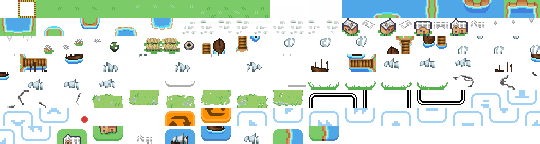
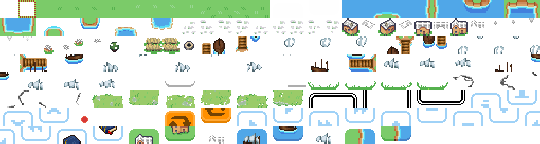
Style the dictionary button

Changed region(s): [[0.0889, 0.8611, 0.7704, 1.0]]

diff --git a/web_client/src/_data/tiles.js b/web_client/src/_data/tiles.js
@@ -212,22 +212,26 @@ const tiles = {
     SKIP_PREV_BUTTON_NE: 210,
     SKIP_PREV_BUTTON_SW: 211,
     SKIP_PREV_BUTTON_SE: 212,
-    TOWN_BUTTON_NW: 213,
-    TOWN_BUTTON_NE: 214,
-    TOWN_BUTTON_SW: 215,
-    TOWN_BUTTON_SE: 216,
-    TOWN_BUTTON_ROOF_NW: 217,
-    TOWN_BUTTON_ROOF_NE: 218,
-    DOCK_BUTTON_NW: 219,
-    DOCK_BUTTON_NE: 220,
-    DOCK_BUTTON_SW: 221,
-    DOCK_BUTTON_SE: 222,
-    DOCK_BUTTON_SAIL_NW: 223,
-    DOCK_BUTTON_SAIL_NE: 224,
-    TERRAIN_BUTTON_NW: 225,
-    TERRAIN_BUTTON_NE: 226,
-    TERRAIN_BUTTON_SW: 227,
-    TERRAIN_BUTTON_SE: 228,
+    DICT_BUTTON_NW: 213,
+    DICT_BUTTON_NE: 214,
+    DICT_BUTTON_SW: 215,
+    DICT_BUTTON_SE: 216,
+    TOWN_BUTTON_NW: 217,
+    TOWN_BUTTON_NE: 218,
+    TOWN_BUTTON_SW: 219,
+    TOWN_BUTTON_SE: 220,
+    TOWN_BUTTON_ROOF_NW: 221,
+    TOWN_BUTTON_ROOF_NE: 222,
+    DOCK_BUTTON_NW: 223,
+    DOCK_BUTTON_NE: 224,
+    DOCK_BUTTON_SW: 225,
+    DOCK_BUTTON_SE: 226,
+    DOCK_BUTTON_SAIL_NW: 227,
+    DOCK_BUTTON_SAIL_NE: 228,
+    TERRAIN_BUTTON_NW: 229,
+    TERRAIN_BUTTON_NE: 230,
+    TERRAIN_BUTTON_SW: 231,
+    TERRAIN_BUTTON_SE: 232,
 };
 
 const quads = {
@@ -281,6 +285,7 @@ const quads = {
     TRI_NORTH_BUTTON: [[tiles.TRI_NORTH_BUTTON_NW, tiles.TRI_NORTH_BUTTON_NE],[tiles.TRI_NORTH_BUTTON_SW, tiles.TRI_NORTH_BUTTON_SE]],
     TRI_SOUTH_BUTTON: [[tiles.TRI_SOUTH_BUTTON_NW, tiles.TRI_SOUTH_BUTTON_NE],[tiles.TRI_SOUTH_BUTTON_SW, tiles.TRI_SOUTH_BUTTON_SE]],
     SKIP_PREV_BUTTON: [[tiles.SKIP_PREV_BUTTON_NW, tiles.SKIP_PREV_BUTTON_NE],[tiles.SKIP_PREV_BUTTON_SW, tiles.SKIP_PREV_BUTTON_SE]],
+    DICT_BUTTON: [[tiles.DICT_BUTTON_NW, tiles.DICT_BUTTON_NE],[tiles.DICT_BUTTON_SW, tiles.DICT_BUTTON_SE]],
     TOWN_BUTTON: [[tiles.TOWN_BUTTON_NW, tiles.TOWN_BUTTON_NE],[tiles.TOWN_BUTTON_SW, tiles.TOWN_BUTTON_SE]],
     TOWN_BUTTON_ROOF: [[tiles.TOWN_BUTTON_ROOF_NW, tiles.TOWN_BUTTON_ROOF_NE],[tiles.NONE, tiles.NONE]],
     DOCK_BUTTON: [[tiles.DOCK_BUTTON_NW, tiles.DOCK_BUTTON_NE],[tiles.DOCK_BUTTON_SW, tiles.DOCK_BUTTON_SE]],

diff --git a/web_client/src/_data/credits.js b/web_client/src/_data/credits.js
@@ -40,6 +40,14 @@ module.exports = function () {
         "author_url": "http://opengameart.org/users/DualR",
         "license": "CC BY 3.0",
         "license_url": "https://creativecommons.org/licenses/by/3.0/"
+      },
+      {
+        "name": "Roguelike/RPG Items",
+        "url": "https://opengameart.org/content/roguelikerpg-items",
+        "author": "JoeCreates",
+        "author_url": "https://twitter.com/joecreates",
+        "license": "CC BY-SA 3.0",
+        "license_url": "https://creativecommons.org/licenses/by-sa/3.0/"
       }
     ],
     audio_assets: [

diff --git a/truncate_client/src/utils/tex/tiles.rs b/truncate_client/src/utils/tex/tiles.rs
@@ -8,7 +8,7 @@ const fn t(tile: usize) -> Tex {
     Tex { tile, tint: None }
 }
 
-pub const MAX_TILE: usize = 229;
+pub const MAX_TILE: usize = 233;
 pub const NONE: Tex = t(0);
 pub const DEBUG: Tex = t(1);
 pub const BASE_GRASS: Tex = t(2);
@@ -222,22 +222,26 @@ pub const SKIP_PREV_BUTTON_NW: Tex = t(209);
 pub const SKIP_PREV_BUTTON_NE: Tex = t(210);
 pub const SKIP_PREV_BUTTON_SW: Tex = t(211);
 pub const SKIP_PREV_BUTTON_SE: Tex = t(212);
-pub const TOWN_BUTTON_NW: Tex = t(213);
-pub const TOWN_BUTTON_NE: Tex = t(214);
-pub const TOWN_BUTTON_SW: Tex = t(215);
-pub const TOWN_BUTTON_SE: Tex = t(216);
-pub const TOWN_BUTTON_ROOF_NW: Tex = t(217);
-pub const TOWN_BUTTON_ROOF_NE: Tex = t(218);
-pub const DOCK_BUTTON_NW: Tex = t(219);
-pub const DOCK_BUTTON_NE: Tex = t(220);
-pub const DOCK_BUTTON_SW: Tex = t(221);
-pub const DOCK_BUTTON_SE: Tex = t(222);
-pub const DOCK_BUTTON_SAIL_NW: Tex = t(223);
-pub const DOCK_BUTTON_SAIL_NE: Tex = t(224);
-pub const TERRAIN_BUTTON_NW: Tex = t(225);
-pub const TERRAIN_BUTTON_NE: Tex = t(226);
-pub const TERRAIN_BUTTON_SW: Tex = t(227);
-pub const TERRAIN_BUTTON_SE: Tex = t(228);
+pub const DICT_BUTTON_NW: Tex = t(213);
+pub const DICT_BUTTON_NE: Tex = t(214);
+pub const DICT_BUTTON_SW: Tex = t(215);
+pub const DICT_BUTTON_SE: Tex = t(216);
+pub const TOWN_BUTTON_NW: Tex = t(217);
+pub const TOWN_BUTTON_NE: Tex = t(218);
+pub const TOWN_BUTTON_SW: Tex = t(219);
+pub const TOWN_BUTTON_SE: Tex = t(220);
+pub const TOWN_BUTTON_ROOF_NW: Tex = t(221);
+pub const TOWN_BUTTON_ROOF_NE: Tex = t(222);
+pub const DOCK_BUTTON_NW: Tex = t(223);
+pub const DOCK_BUTTON_NE: Tex = t(224);
+pub const DOCK_BUTTON_SW: Tex = t(225);
+pub const DOCK_BUTTON_SE: Tex = t(226);
+pub const DOCK_BUTTON_SAIL_NW: Tex = t(227);
+pub const DOCK_BUTTON_SAIL_NE: Tex = t(228);
+pub const TERRAIN_BUTTON_NW: Tex = t(229);
+pub const TERRAIN_BUTTON_NE: Tex = t(230);
+pub const TERRAIN_BUTTON_SW: Tex = t(231);
+pub const TERRAIN_BUTTON_SE: Tex = t(232);
 
 pub mod quad {
     use super::*;
@@ -292,6 +296,7 @@ pub mod quad {
     pub const TRI_NORTH_BUTTON: TexQuad = [TRI_NORTH_BUTTON_NW, TRI_NORTH_BUTTON_NE, TRI_NORTH_BUTTON_SE, TRI_NORTH_BUTTON_SW];
     pub const TRI_SOUTH_BUTTON: TexQuad = [TRI_SOUTH_BUTTON_NW, TRI_SOUTH_BUTTON_NE, TRI_SOUTH_BUTTON_SE, TRI_SOUTH_BUTTON_SW];
     pub const SKIP_PREV_BUTTON: TexQuad = [SKIP_PREV_BUTTON_NW, SKIP_PREV_BUTTON_NE, SKIP_PREV_BUTTON_SE, SKIP_PREV_BUTTON_SW];
+    pub const DICT_BUTTON: TexQuad = [DICT_BUTTON_NW, DICT_BUTTON_NE, DICT_BUTTON_SE, DICT_BUTTON_SW];
     pub const TOWN_BUTTON: TexQuad = [TOWN_BUTTON_NW, TOWN_BUTTON_NE, TOWN_BUTTON_SE, TOWN_BUTTON_SW];
     pub const TOWN_BUTTON_ROOF: TexQuad = [TOWN_BUTTON_ROOF_NW, TOWN_BUTTON_ROOF_NE, NONE, NONE];
     pub const DOCK_BUTTON: TexQuad = [DOCK_BUTTON_NW, DOCK_BUTTON_NE, DOCK_BUTTON_SE, DOCK_BUTTON_SW];

diff --git a/truncate_client/src/regions/active_game/control_strip.rs b/truncate_client/src/regions/active_game/control_strip.rs
@@ -239,11 +239,7 @@ impl ActiveGame {
                                 }
 
                                 render_tex_quad(
-                                    if self.depot.ui_state.actions_menu_open {
-                                        tiles::quad::INFO_BUTTON
-                                    } else {
-                                        tiles::quad::INFO_BUTTON
-                                    },
+                                    tiles::quad::DICT_BUTTON,
                                     dict_button_rect,
                                     &self.depot.aesthetics.map_texture,
                                     ui,
